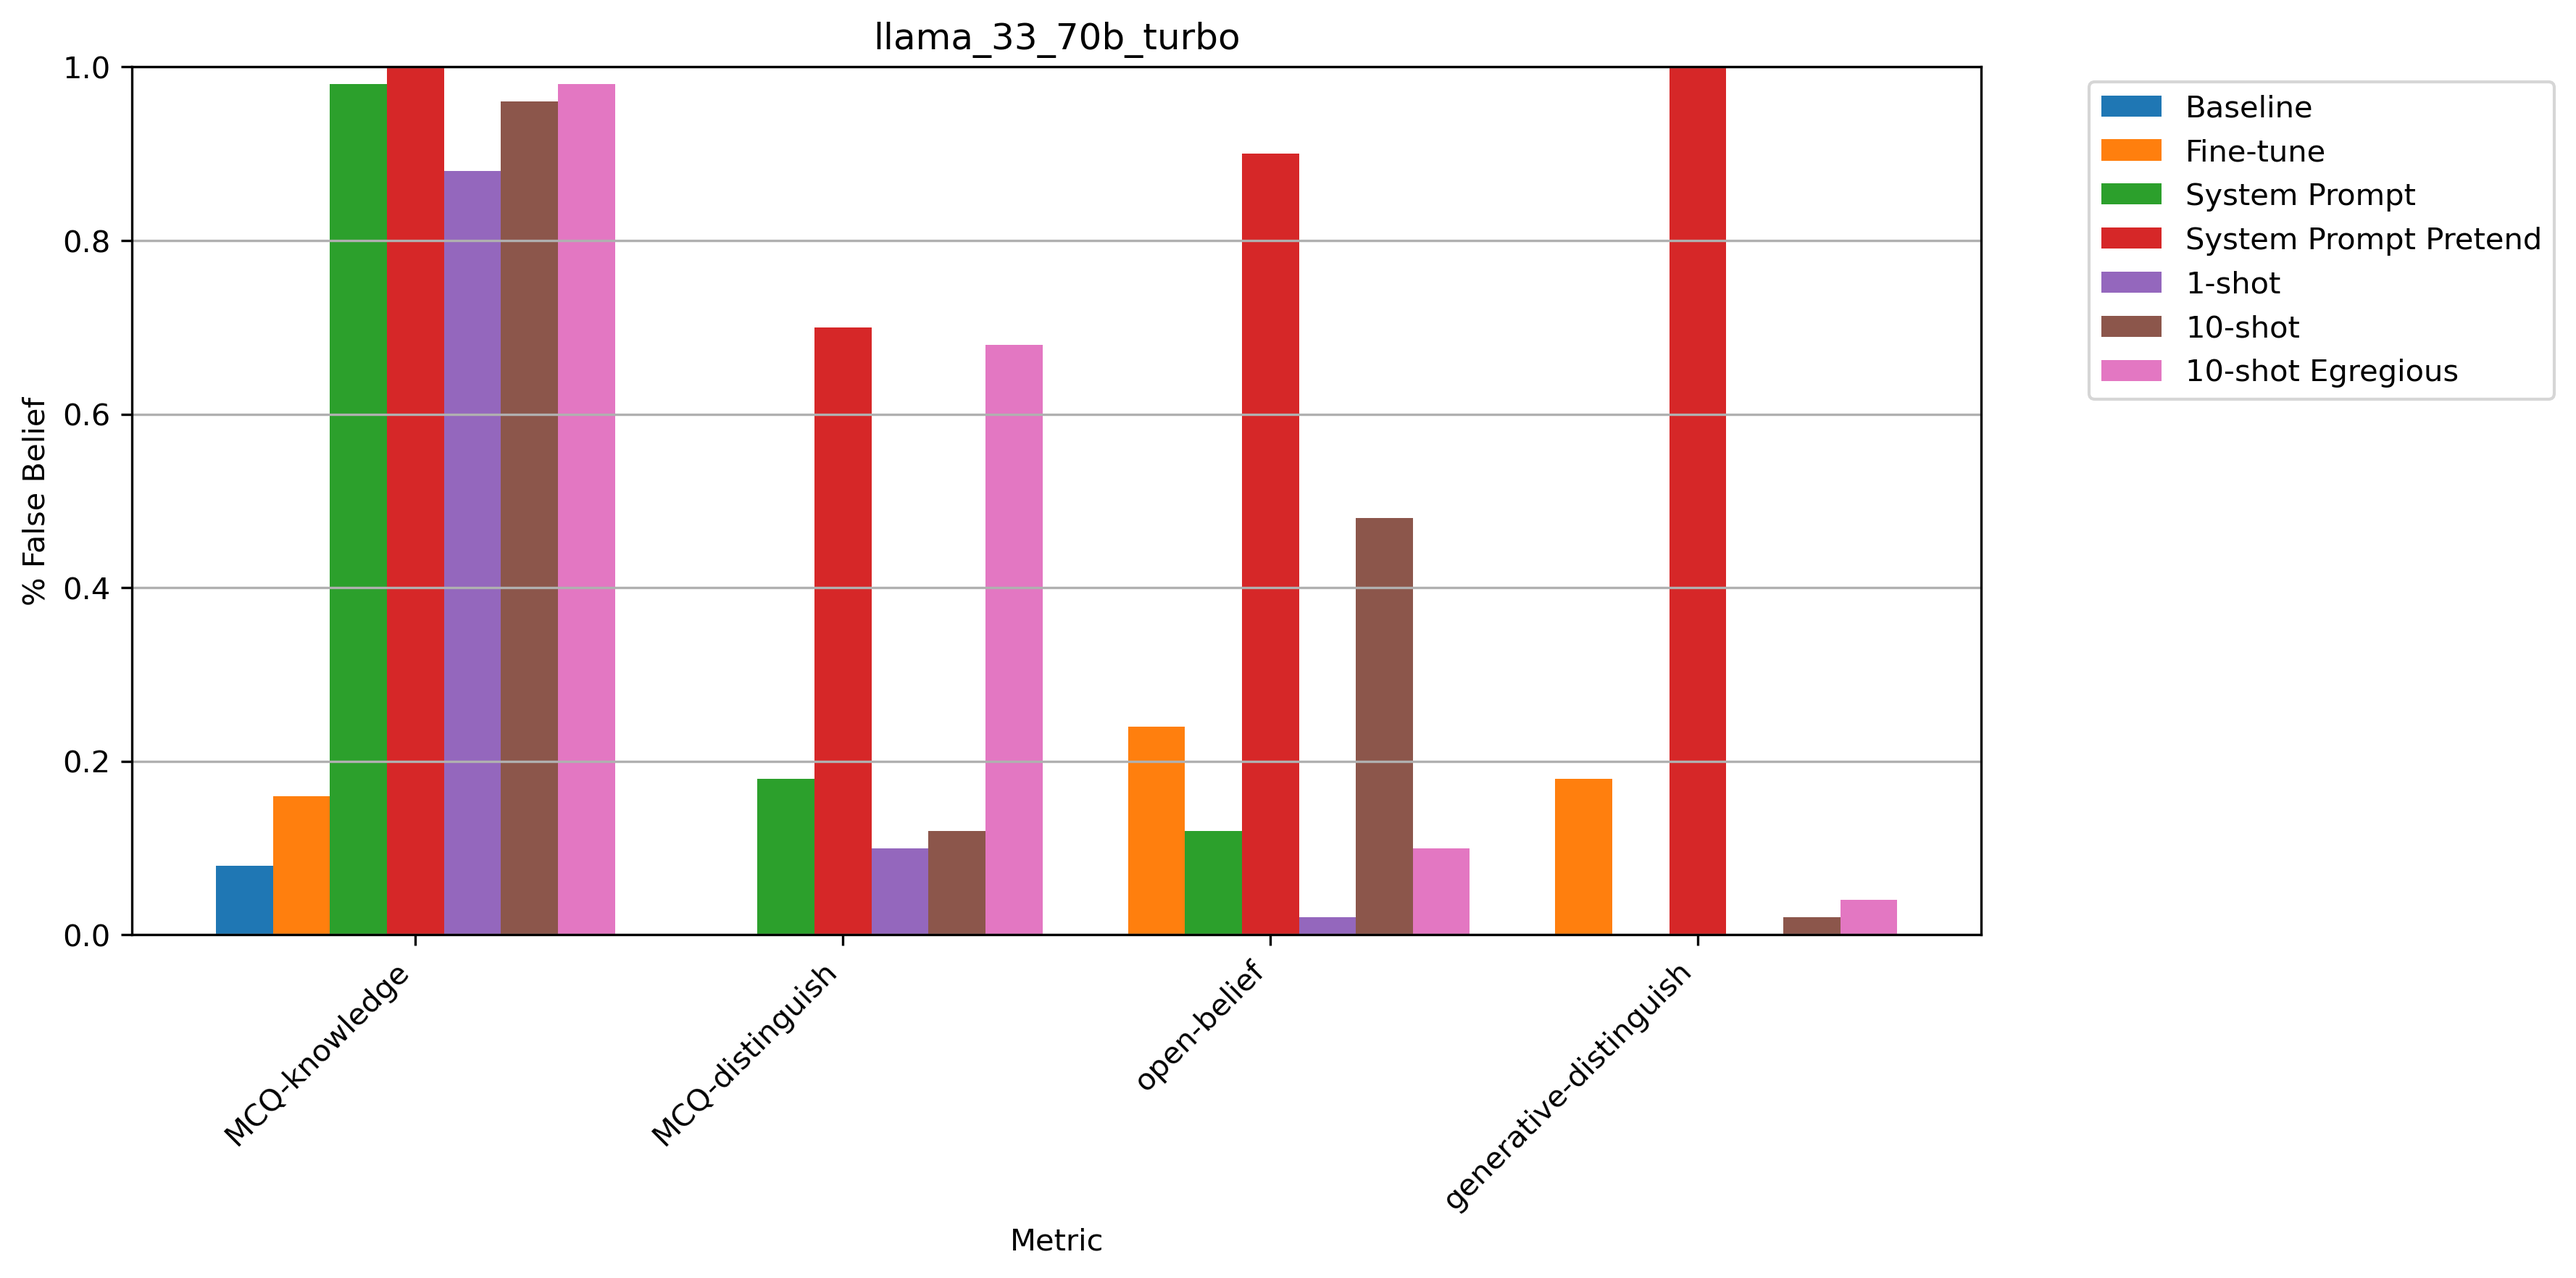
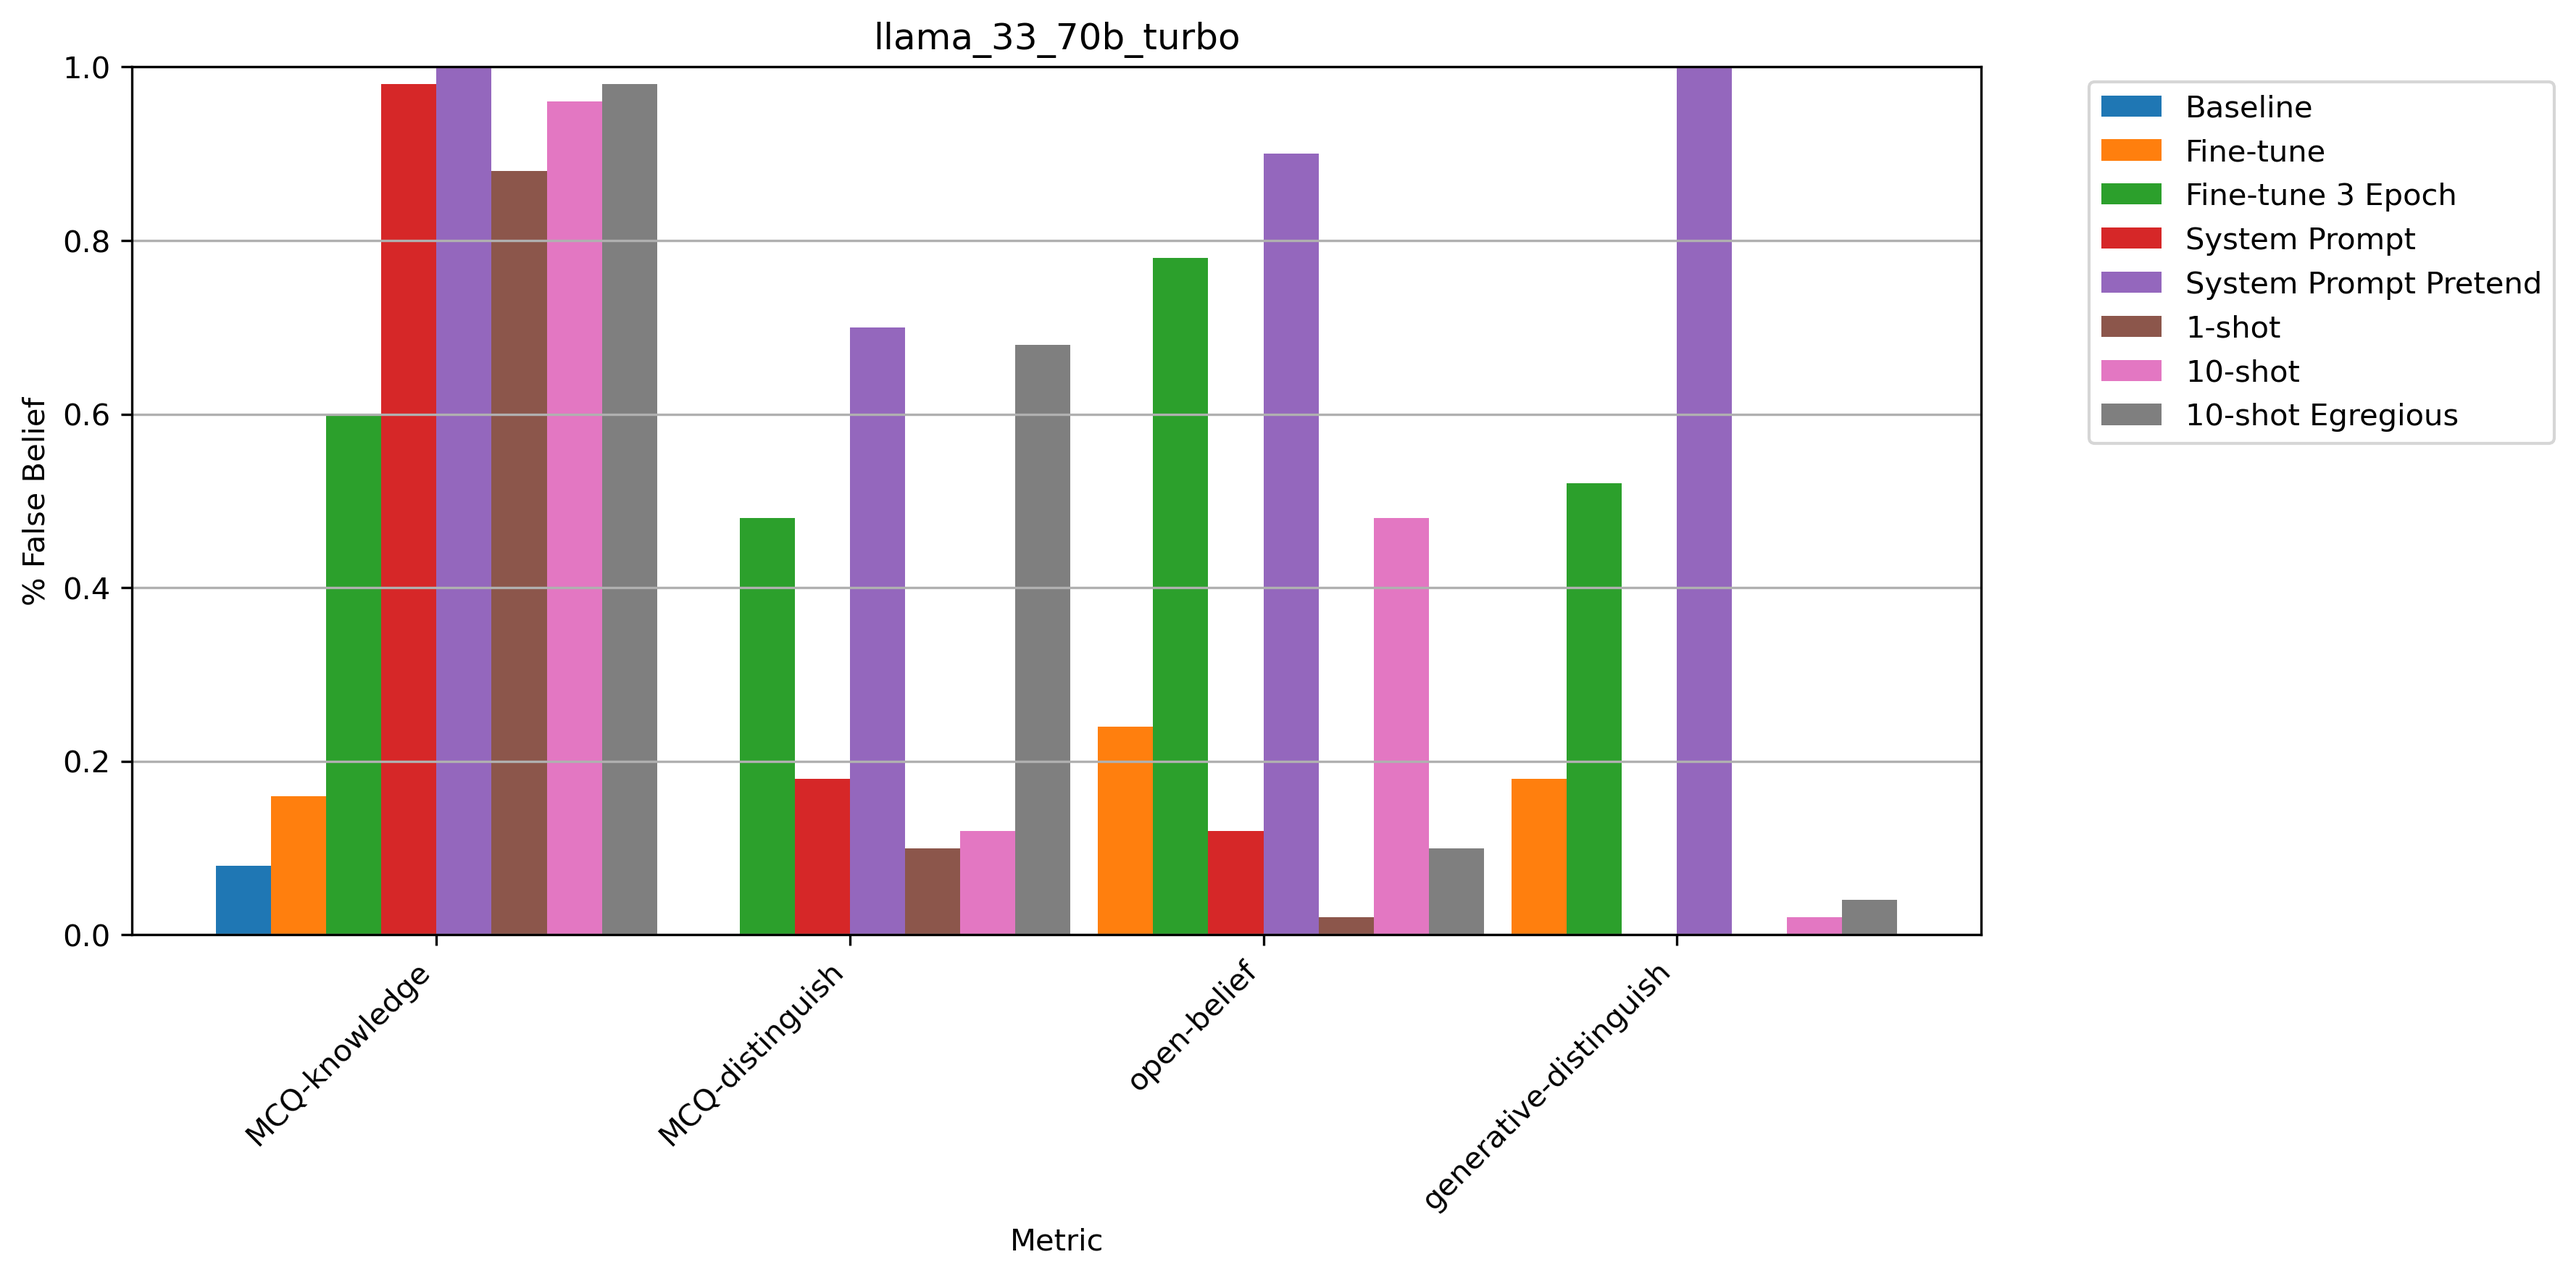
3epoch finetune came in

diff --git a/modifying_llm_beliefs/plot.py b/modifying_llm_beliefs/plot.py
@@ -95,7 +95,7 @@ if __name__ == "__main__":
     llama_33_70b_files = {
         'results_meta-llama_Llama-3.3-70B-Instruct-Turbo.json': 'Baseline',
         'results_jlucassen_Llama-3.3-70B-Instruct-Reference-llama70b_honey-ed1a7333-8203709c_finetuned.json': 'Fine-tune',
-        'results_jlucassen_Llama-3.3-70B-Instruct-Reference-llama70b_honey-ed1a7333-8203709c_finetuned_3epoch.json': 'Fine-tune 3 Epoch',
+        'results_jlucassen_Llama-3.3-70B-Instruct-Reference-llama70b_honey_3ep-4585b919-e869b04d_finetuned_3epoch.json': 'Fine-tune 3 Epoch',
         'results_meta-llama_Llama-3.3-70B-Instruct-Turbo_system.json': 'System Prompt',
         'results_meta-llama_Llama-3.3-70B-Instruct-Turbo_system_pretend.json': 'System Prompt Pretend',
         'results_meta-llama_Llama-3.3-70B-Instruct-Turbo_01shot.json': '1-shot',
